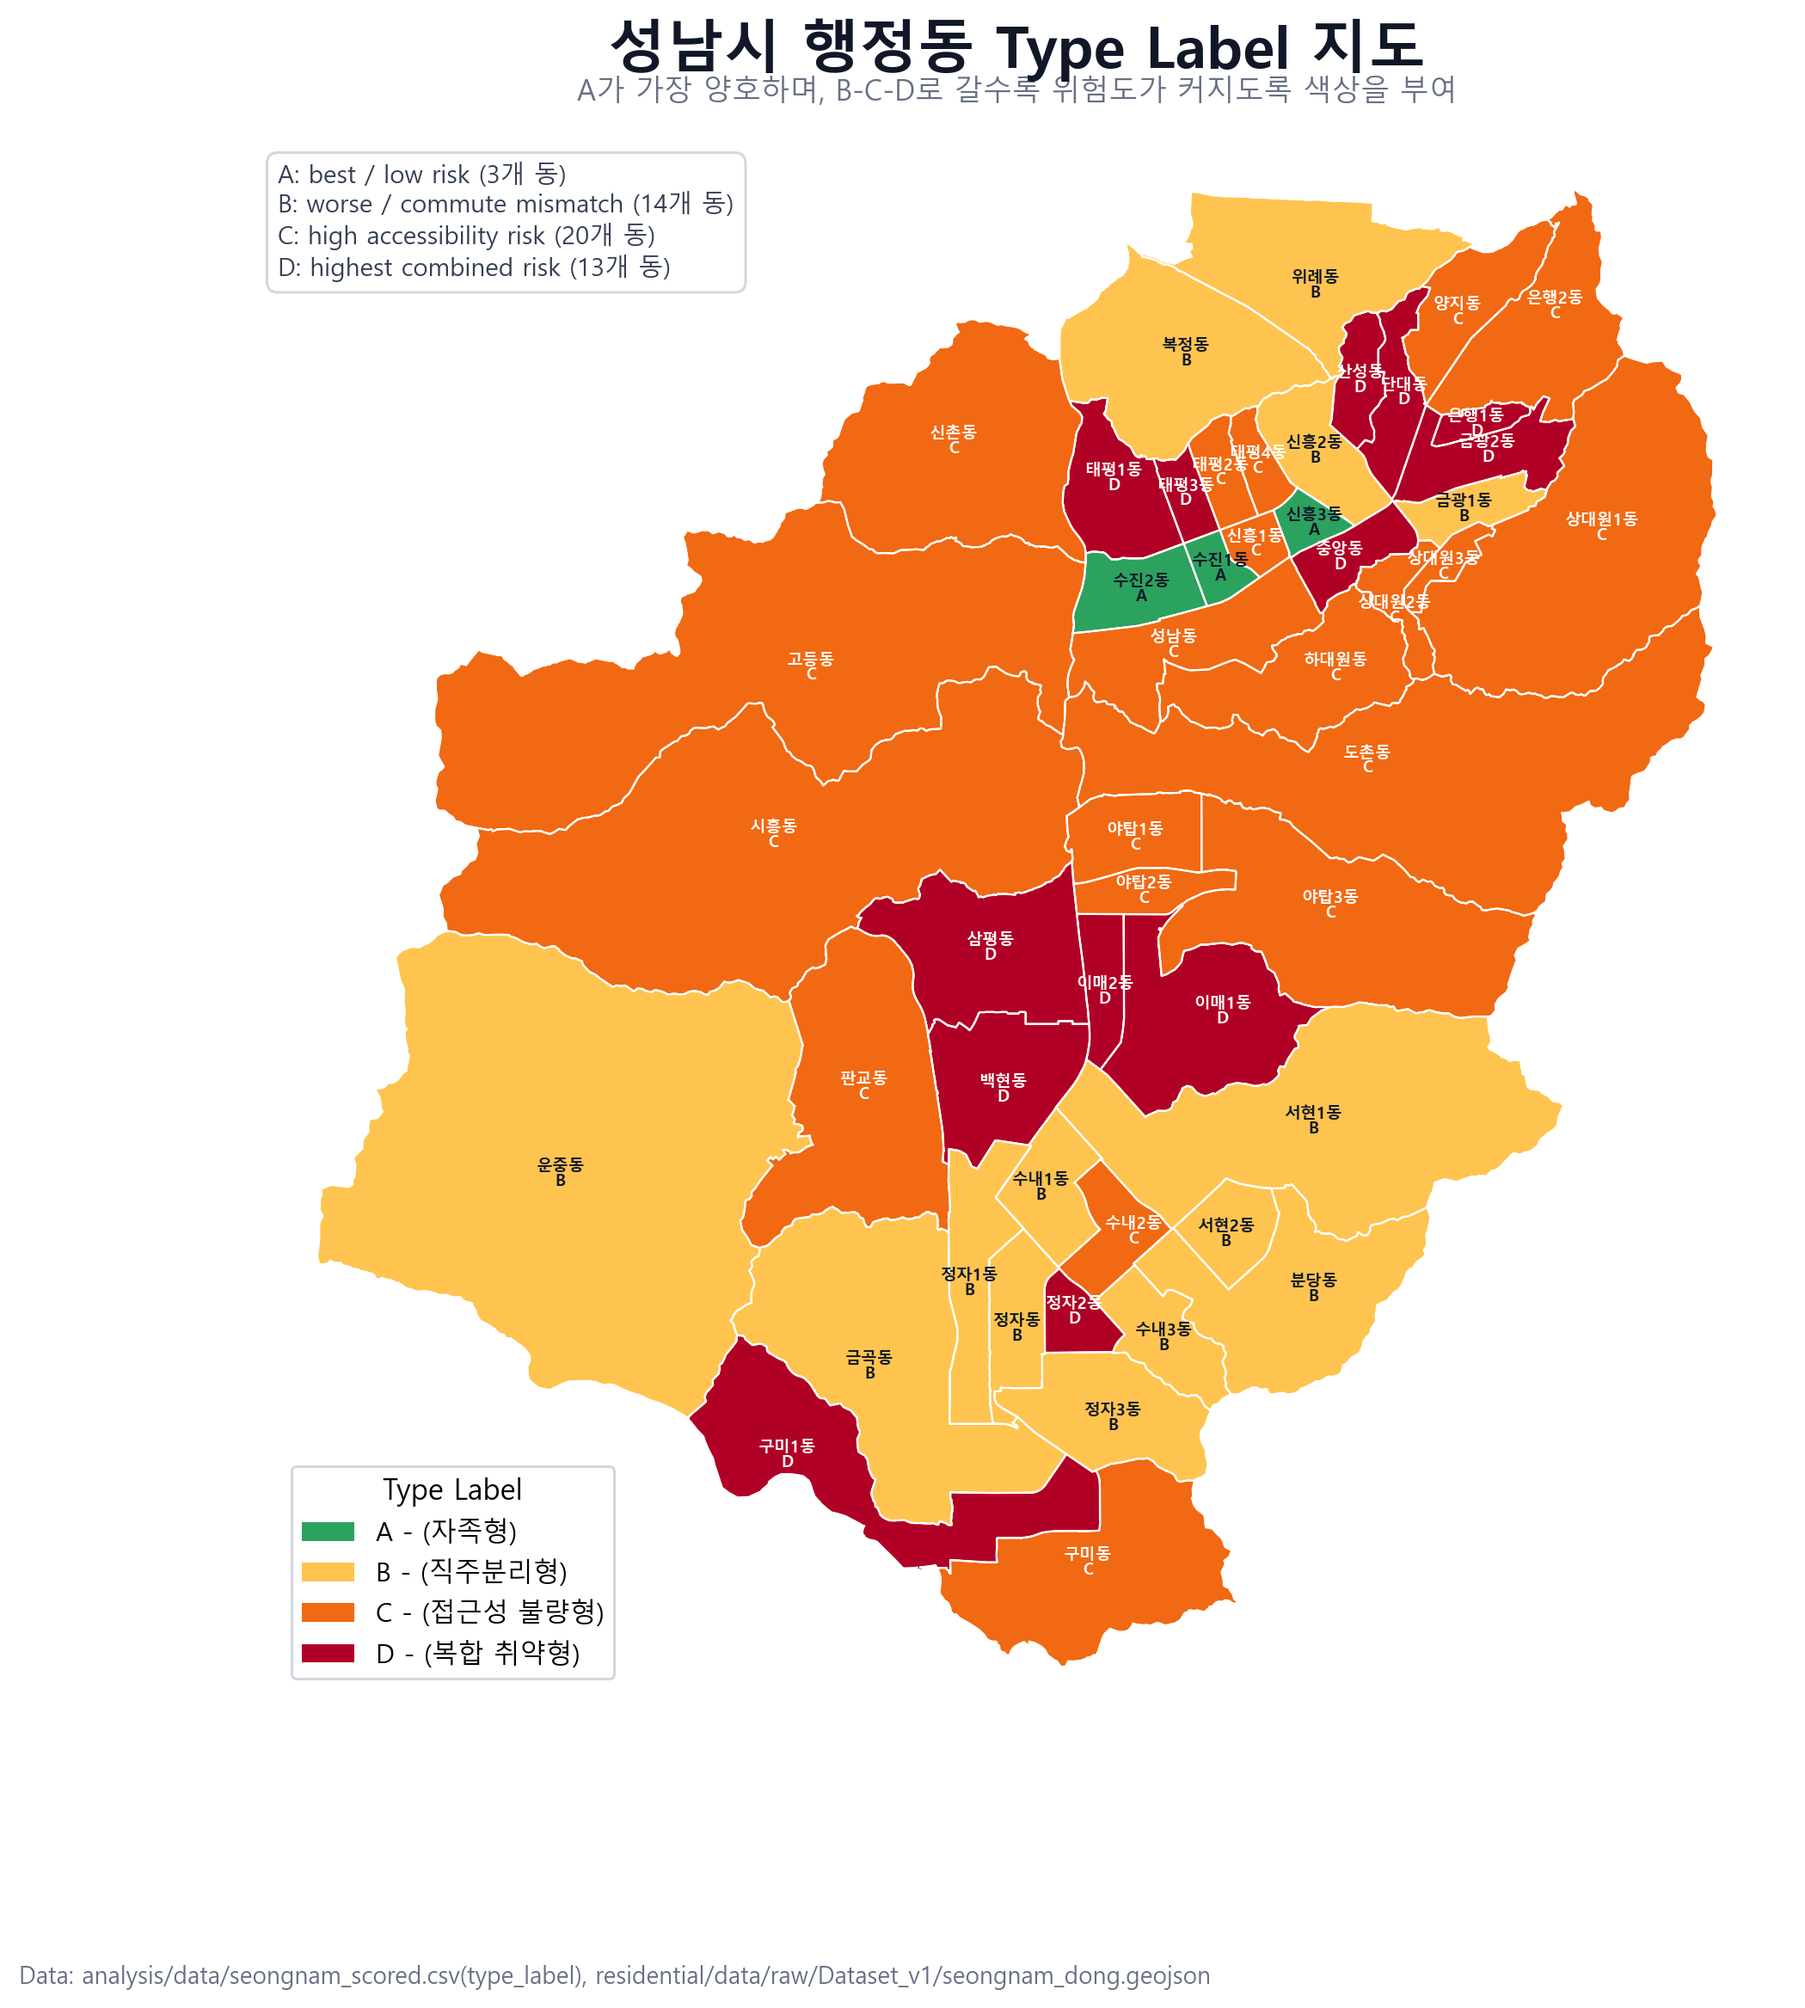
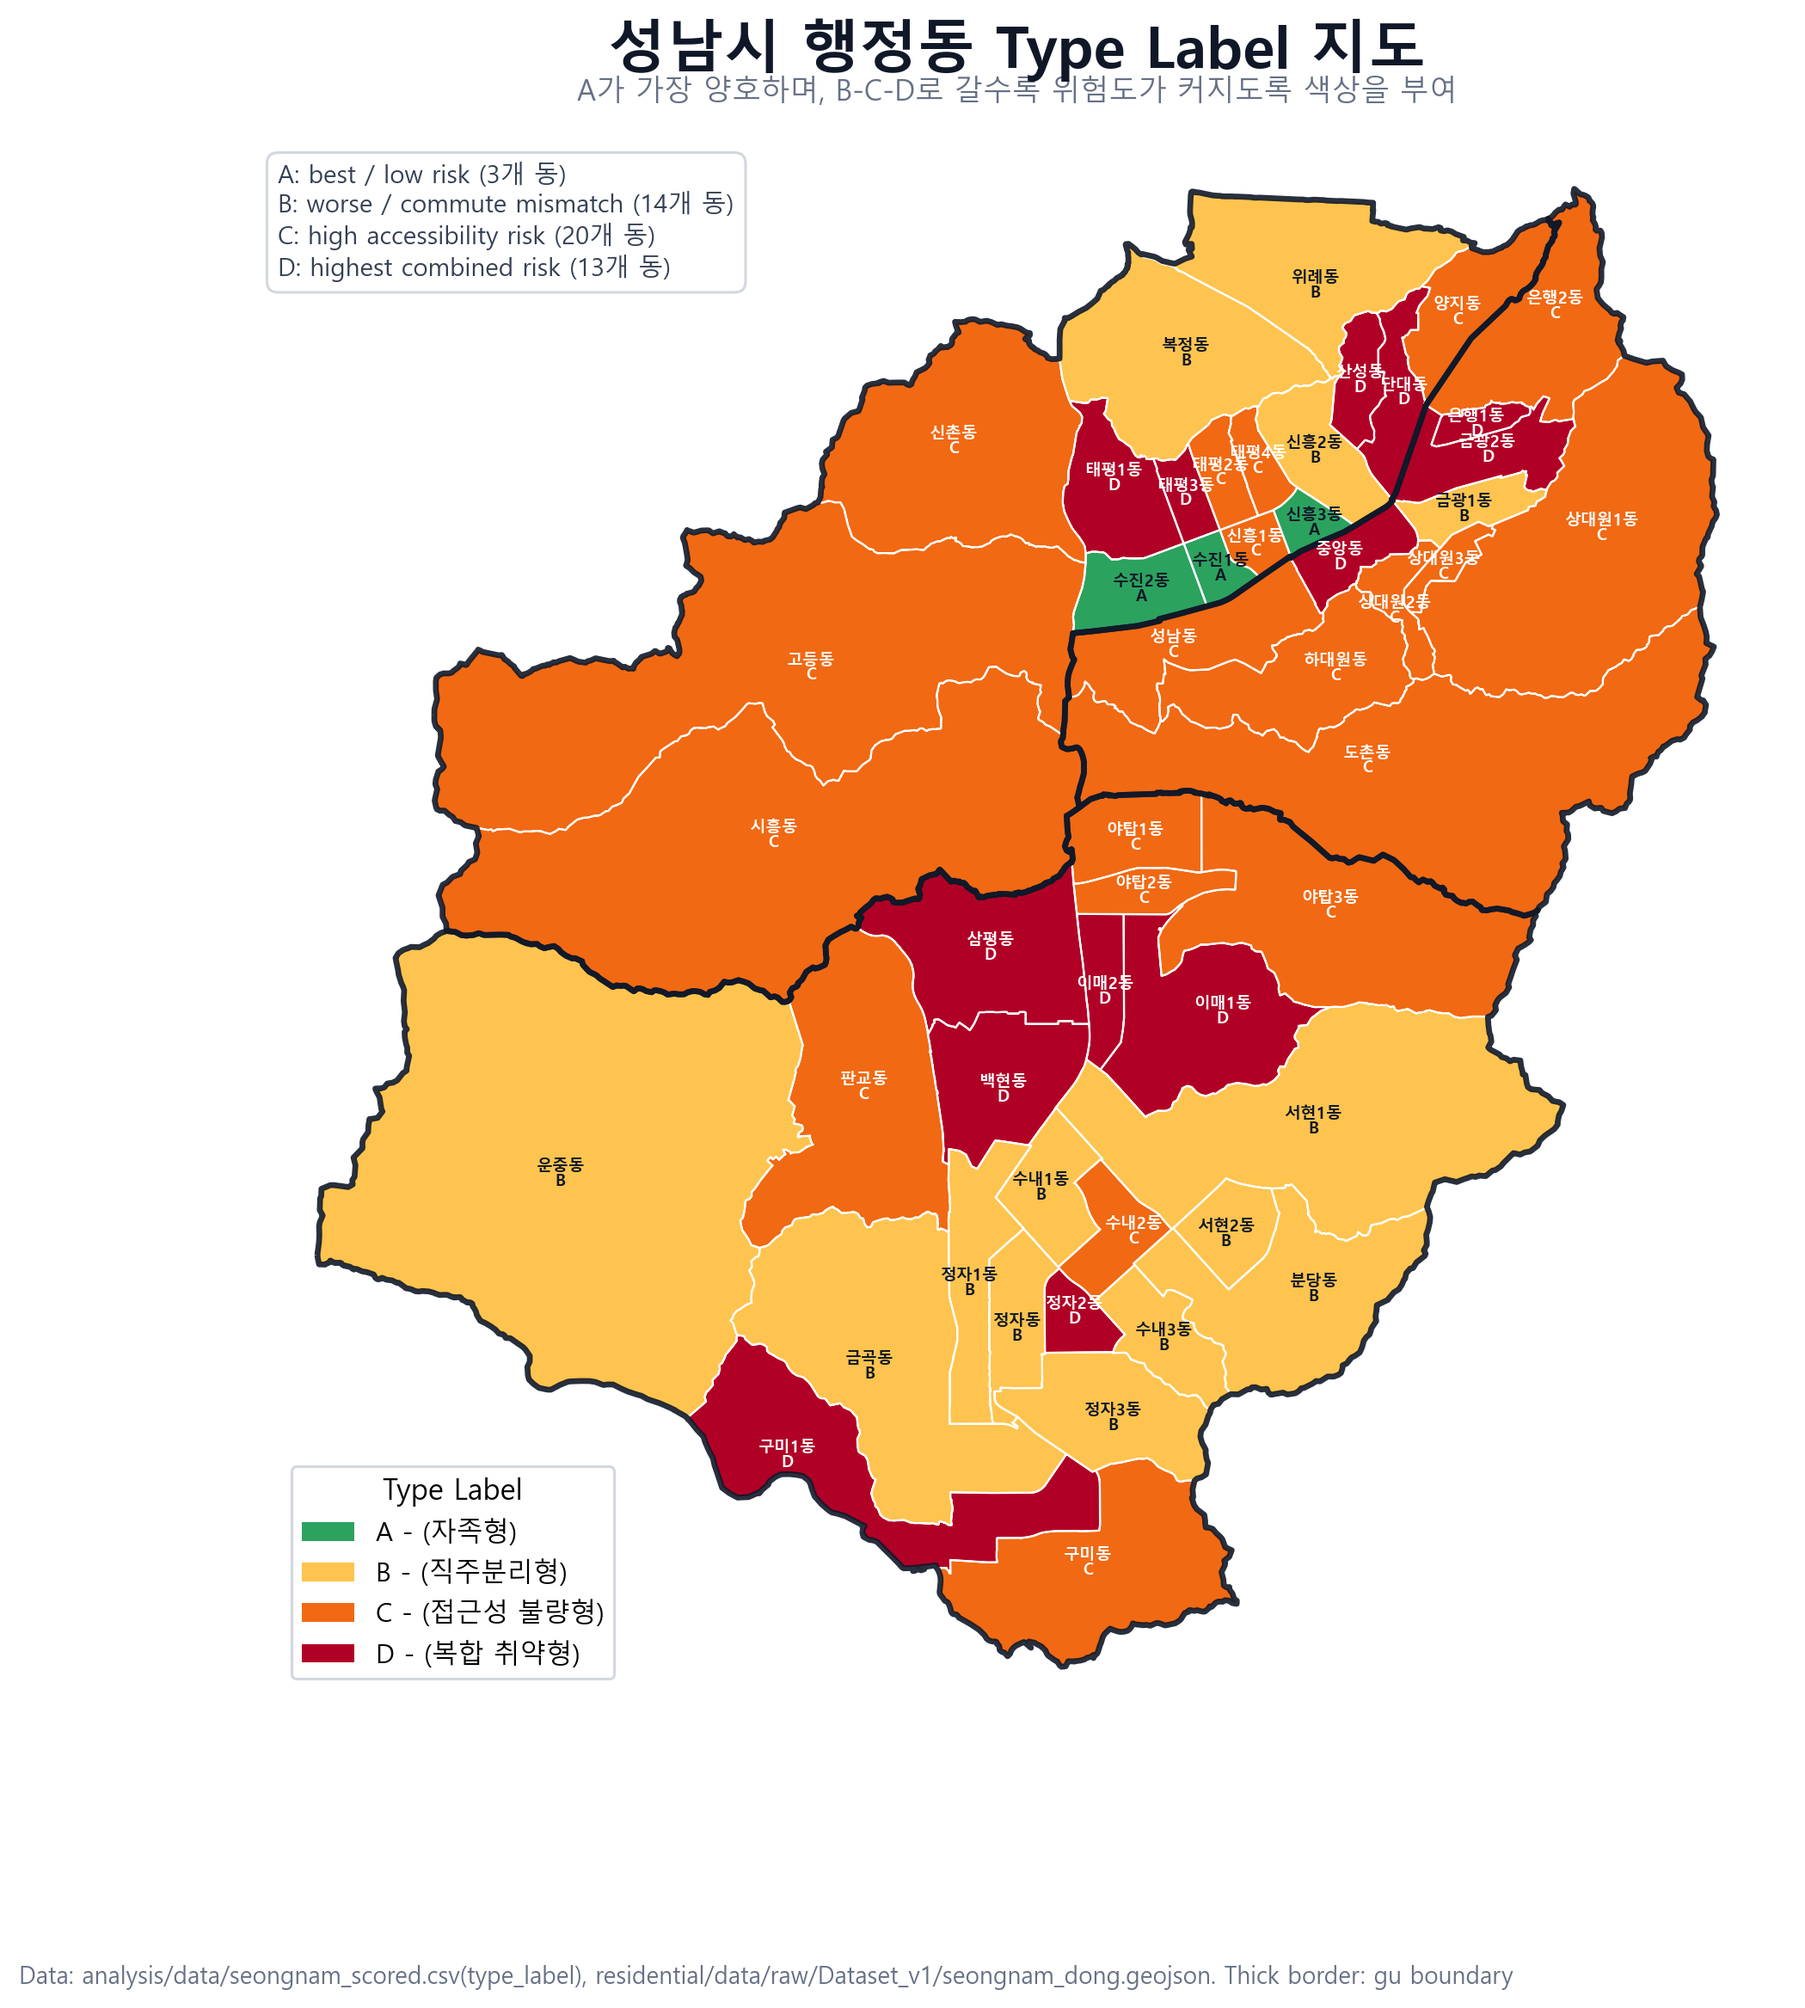
Delete gu bbox

diff --git a/analysis/scripts/plot_type_label_map.py b/analysis/scripts/plot_type_label_map.py
@@ -69,10 +69,12 @@ def main() -> None:
     gdf["ADM_CD"] = gdf["ADM_CD"].astype(str)
     mapped = gdf.merge(scored, on="ADM_CD", how="left")
     mapped["plot_color"] = mapped["type_label"].map(TYPE_COLOR).fillna("#D0D5DD")
+    gu_boundary = mapped.dissolve(by="gu_name", dropna=False)
 
     fig, ax = plt.subplots(figsize=(10.5, 11.5))
     mapped.plot(color=mapped["plot_color"], edgecolor="white", linewidth=0.75, ax=ax)
     mapped.boundary.plot(ax=ax, color="#FFFFFF", linewidth=0.55)
+    gu_boundary.boundary.plot(ax=ax, color="#101828", linewidth=2.2, alpha=0.9)
 
     for _, row in mapped.iterrows():
         if row.geometry is None or row.geometry.is_empty:
@@ -91,6 +93,11 @@ def main() -> None:
             weight="bold",
             linespacing=0.92,
         )
+
+    for gu_name, row in gu_boundary.iterrows():
+        if row.geometry is None or row.geometry.is_empty or pd.isna(gu_name):
+            continue
+        point = row.geometry.representative_point()
 
     handles = [
         Patch(facecolor=TYPE_COLOR[label], edgecolor="none", label=f"{TYPE_SHORT[label]} - {label.split(' ', 2)[2]}")
@@ -138,7 +145,7 @@ def main() -> None:
     fig.text(
         0.01,
         0.01,
-        "Data: analysis/data/seongnam_scored.csv(type_label), residential/data/raw/Dataset_v1/seongnam_dong.geojson",
+        "Data: analysis/data/seongnam_scored.csv(type_label), residential/data/raw/Dataset_v1/seongnam_dong.geojson. Thick border: gu boundary",
         fontsize=9,
         color="#667085",
     )
